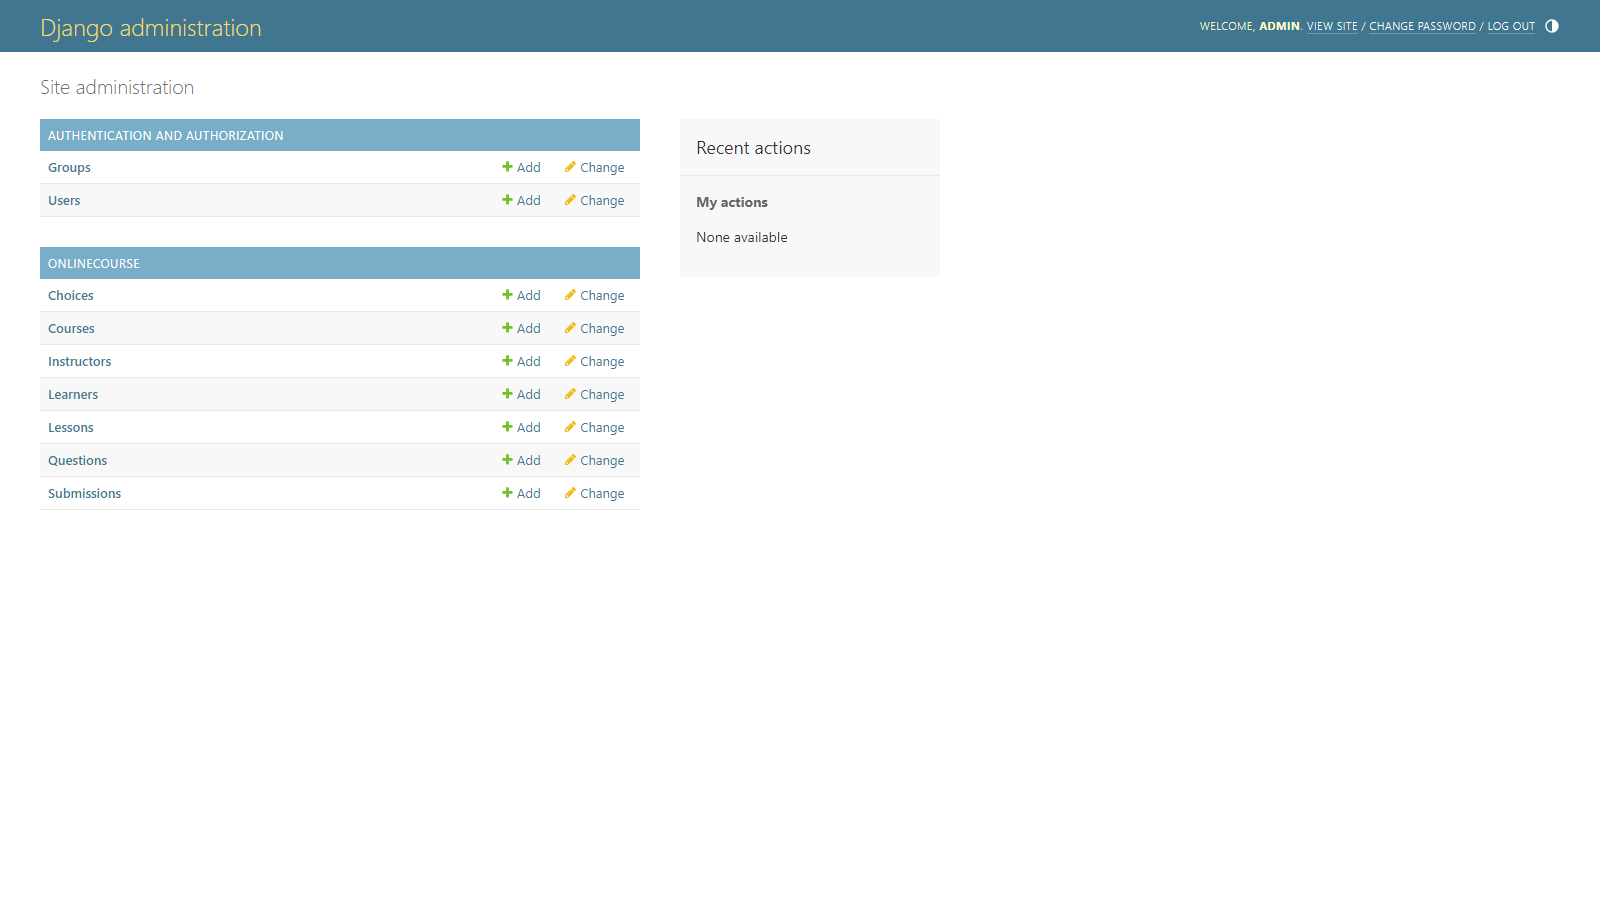
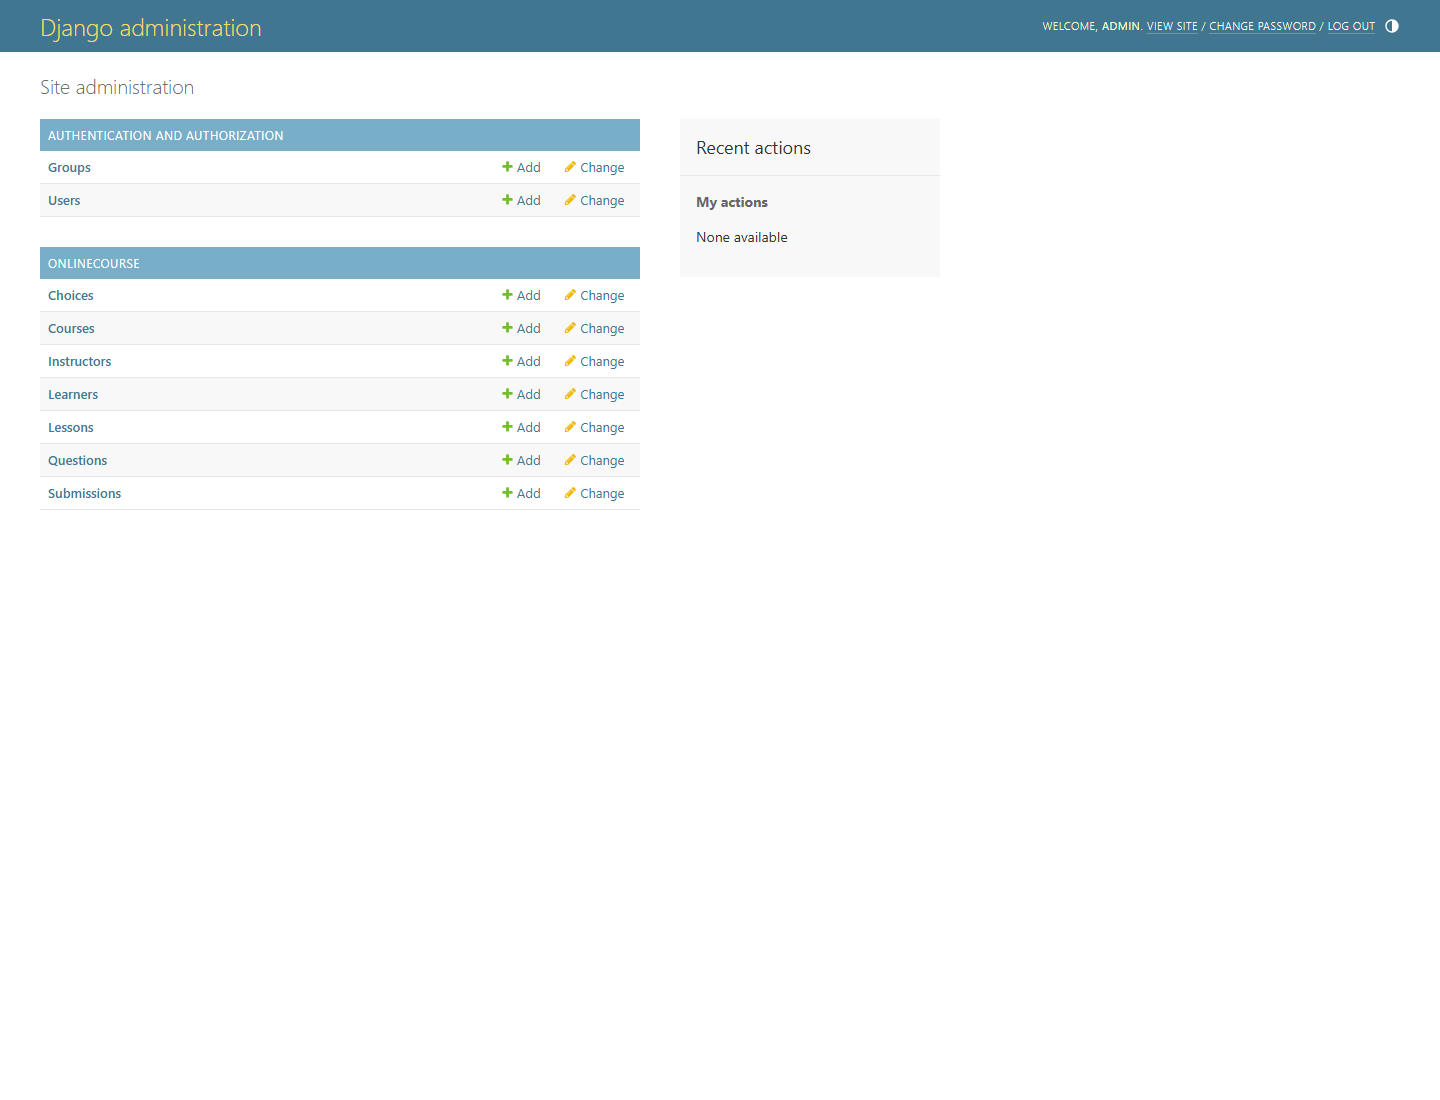
Align OnlineCourse submission with grading rubric

Changed region(s): [[0.0, 0.0, 1.0, 0.2178], [0.0, 0.2178, 0.5, 0.56]]

diff --git a/onlinecourse/templates/onlinecourse/exam_result_bootstrap.html b/onlinecourse/templates/onlinecourse/exam_result_bootstrap.html
@@ -47,7 +47,7 @@
         <a class="btn btn-link text-danger" href="{% url 'onlinecourse:course_details' course.id %}">Re-test</a>
         {% endif %}
         <div class="card-columns-vertical mt-1">
-        <h5 class="">Exam results: {{ score }} / {{ total }}</h5>
+        <h5 class="">Exam results: {{ score }} / {{ possible }}</h5>
             {% for result in question_results %}
                 <div class="card mt-1">
                     <div class="card-header">

diff --git a/onlinecourse/migrations/0002_remove_submission_created_at_question_course_and_more.py b/onlinecourse/migrations/0002_remove_submission_created_at_question_course_and_more.py
@@ -1,0 +1,28 @@
+# Generated by Django 4.2.30 on 2026-06-19 22:19
+
+from django.db import migrations, models
+import django.db.models.deletion
+
+
+class Migration(migrations.Migration):
+
+    dependencies = [
+        ('onlinecourse', '0001_initial'),
+    ]
+
+    operations = [
+        migrations.RemoveField(
+            model_name='submission',
+            name='created_at',
+        ),
+        migrations.AddField(
+            model_name='question',
+            name='course',
+            field=models.ForeignKey(blank=True, null=True, on_delete=django.db.models.deletion.CASCADE, to='onlinecourse.course'),
+        ),
+        migrations.AlterField(
+            model_name='choice',
+            name='choice_text',
+            field=models.CharField(max_length=100),
+        ),
+    ]

diff --git a/onlinecourse/views.py b/onlinecourse/views.py
@@ -2,6 +2,7 @@ from django.shortcuts import render
 from django.http import HttpResponseRedirect
 from .models import Choice, Course, Enrollment, Question, Submission
 from django.contrib.auth.models import User
+from django.db.models import Q
 from django.shortcuts import get_object_or_404, render, redirect
 from django.urls import reverse
 from django.views import generic
@@ -118,8 +119,8 @@ def submit(request, course_id):
     submission = Submission.objects.create(enrollment=enrollment)
     selected_choice_ids = extract_answers(request)
     selected_choices = Choice.objects.filter(
+        Q(question__lesson__course=course) | Q(question__course=course),
         id__in=selected_choice_ids,
-        question__lesson__course=course,
     )
     submission.choices.set(selected_choices)
 
@@ -150,8 +151,8 @@ def show_exam_result(request, course_id, submission_id):
     )
     selected_ids = list(submission.choices.values_list('id', flat=True))
     questions = Question.objects.filter(
-        lesson__course=course,
-    ).prefetch_related('choice_set').order_by('lesson__order', 'id')
+        Q(lesson__course=course) | Q(course=course),
+    ).distinct().prefetch_related('choice_set').order_by('lesson__order', 'id')
 
     total_score = 0
     question_results = []
@@ -165,10 +166,10 @@ def show_exam_result(request, course_id, submission_id):
             'is_correct': is_correct,
         })
 
-    total_possible_score = sum(question.grade for question in questions)
+    possible_score = sum(question.grade for question in questions)
     grade = 0
-    if total_possible_score:
-        grade = round(total_score / total_possible_score * 100)
+    if possible_score:
+        grade = round(total_score / possible_score * 100)
 
     context = {
         'course': course,
@@ -176,7 +177,8 @@ def show_exam_result(request, course_id, submission_id):
         'selected_ids': selected_ids,
         'question_results': question_results,
         'score': total_score,
-        'total': total_possible_score,
+        'possible': possible_score,
+        'total': possible_score,
         'grade': grade,
     }
     return render(request, 'onlinecourse/exam_result_bootstrap.html', context)

diff --git a/onlinecourse/models.py b/onlinecourse/models.py
@@ -98,11 +98,17 @@ class Enrollment(models.Model):
 class Question(models.Model):
     """Assessment question attached to a lesson in a course."""
     lesson = models.ForeignKey(Lesson, on_delete=models.CASCADE)
+    course = models.ForeignKey(Course, on_delete=models.CASCADE, null=True, blank=True)
     question_text = models.TextField()
     grade = models.IntegerField(default=1)
 
     def __str__(self):
         return self.question_text
+
+    def save(self, *args, **kwargs):
+        if self.lesson_id and not self.course_id:
+            self.course = self.lesson.course
+        super().save(*args, **kwargs)
 
     def is_get_score(self, selected_ids):
         """Return True only when all and only correct choices are selected."""
@@ -118,7 +124,7 @@ class Question(models.Model):
 class Choice(models.Model):
     """Answer choice for a question."""
     question = models.ForeignKey(Question, on_delete=models.CASCADE)
-    choice_text = models.CharField(max_length=1000)
+    choice_text = models.CharField(max_length=100)
     is_correct = models.BooleanField(default=False)
 
     def __str__(self):
@@ -129,7 +135,6 @@ class Submission(models.Model):
     """Learner exam submission for one course enrollment."""
     enrollment = models.ForeignKey(Enrollment, on_delete=models.CASCADE)
     choices = models.ManyToManyField(Choice)
-    created_at = models.DateTimeField(default=now)
 
     def __str__(self):
-        return f"Submission {self.id} for {self.enrollment.user.username}"
+        return f"Submission {self.id} for enrollment {self.enrollment.id}"

diff --git a/onlinecourse/admin.py b/onlinecourse/admin.py
@@ -1,5 +1,5 @@
 from django.contrib import admin
-from .models import Choice, Course, Instructor, Learner, Lesson, Question, Submission
+from .models import Course, Lesson, Instructor, Learner, Question, Choice, Submission
 
 
 class ChoiceInline(admin.StackedInline):
@@ -39,8 +39,8 @@ class QuestionAdmin(admin.ModelAdmin):
 
 admin.site.register(Course, CourseAdmin)
 admin.site.register(Lesson, LessonAdmin)
+admin.site.register(Instructor)
+admin.site.register(Learner)
 admin.site.register(Question, QuestionAdmin)
 admin.site.register(Choice)
 admin.site.register(Submission)
-admin.site.register(Instructor)
-admin.site.register(Learner)

diff --git a/onlinecourse/urls.py b/onlinecourse/urls.py
@@ -18,7 +18,7 @@ urlpatterns = [
     path('<int:course_id>/enroll/', views.enroll, name='enroll'),
     path('<int:course_id>/submit/', views.submit, name='submit'),
     path(
-        '<int:course_id>/submission/<int:submission_id>/result/',
+        'course/<int:course_id>/submission/<int:submission_id>/result/',
         views.show_exam_result,
         name='show_exam_result',
     ),

diff --git a/submission_artifacts/submission_answers.md b/submission_artifacts/submission_answers.md
@@ -1,14 +1,14 @@
 # Completed OnlineCourse Submission Answers
 
-Repository: https://github.com/zcgregory-cpu/emotion-detection-final-project
+Repository: https://github.com/zcgregory-cpu/tfjzl-final-cloud-app-with-database
 
 ## Question 1
 
-https://github.com/zcgregory-cpu/emotion-detection-final-project/blob/main/onlinecourse/models.py
+https://github.com/zcgregory-cpu/tfjzl-final-cloud-app-with-database/blob/main/onlinecourse/models.py
 
 ## Question 2
 
-https://github.com/zcgregory-cpu/emotion-detection-final-project/blob/main/onlinecourse/admin.py
+https://github.com/zcgregory-cpu/tfjzl-final-cloud-app-with-database/blob/main/onlinecourse/admin.py
 
 ## Question 3
 
@@ -16,15 +16,15 @@ Upload `submission_artifacts/03-admin-site.png`.
 
 ## Question 4
 
-https://github.com/zcgregory-cpu/emotion-detection-final-project/blob/main/onlinecourse/templates/onlinecourse/course_detail_bootstrap.html
+https://github.com/zcgregory-cpu/tfjzl-final-cloud-app-with-database/blob/main/onlinecourse/templates/onlinecourse/course_details_bootstrap.html
 
 ## Question 5
 
-https://github.com/zcgregory-cpu/emotion-detection-final-project/blob/main/onlinecourse/views.py
+https://github.com/zcgregory-cpu/tfjzl-final-cloud-app-with-database/blob/main/onlinecourse/views.py
 
 ## Question 6
 
-https://github.com/zcgregory-cpu/emotion-detection-final-project/blob/main/onlinecourse/urls.py
+https://github.com/zcgregory-cpu/tfjzl-final-cloud-app-with-database/blob/main/onlinecourse/urls.py
 
 ## Question 7
 

diff --git a/README.md b/README.md
@@ -4,11 +4,14 @@ This project implements the IBM Skills Network OnlineCourse Django final
 project. It adds assessment models, Django admin inlines, exam submission
 handling, result display, and Bootstrap templates for the course detail page.
 
+Submission repository:
+https://github.com/zcgregory-cpu/tfjzl-final-cloud-app-with-database
+
 The required submission files are:
 
 - `onlinecourse/models.py`
 - `onlinecourse/admin.py`
-- `onlinecourse/templates/onlinecourse/course_detail_bootstrap.html`
+- `onlinecourse/templates/onlinecourse/course_details_bootstrap.html`
 - `onlinecourse/views.py`
 - `onlinecourse/urls.py`
 - `submission_artifacts/03-admin-site.png`